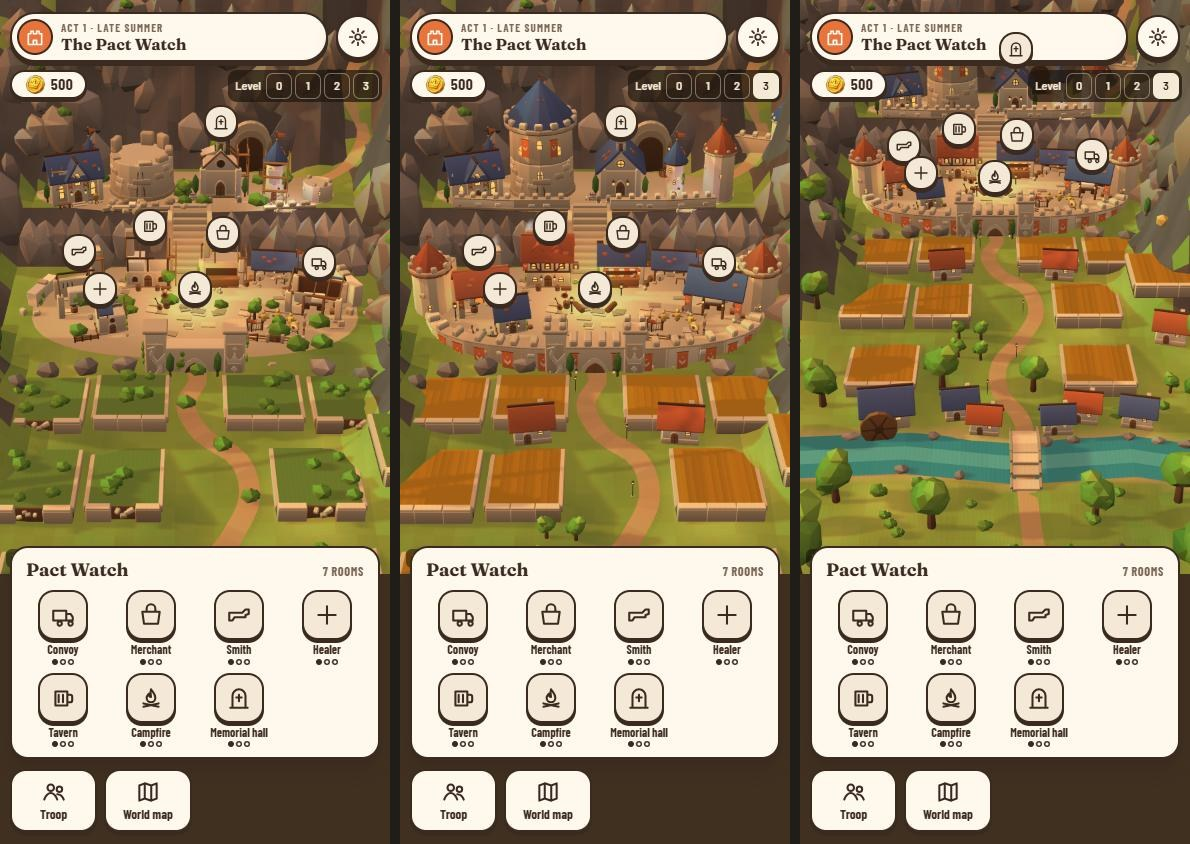
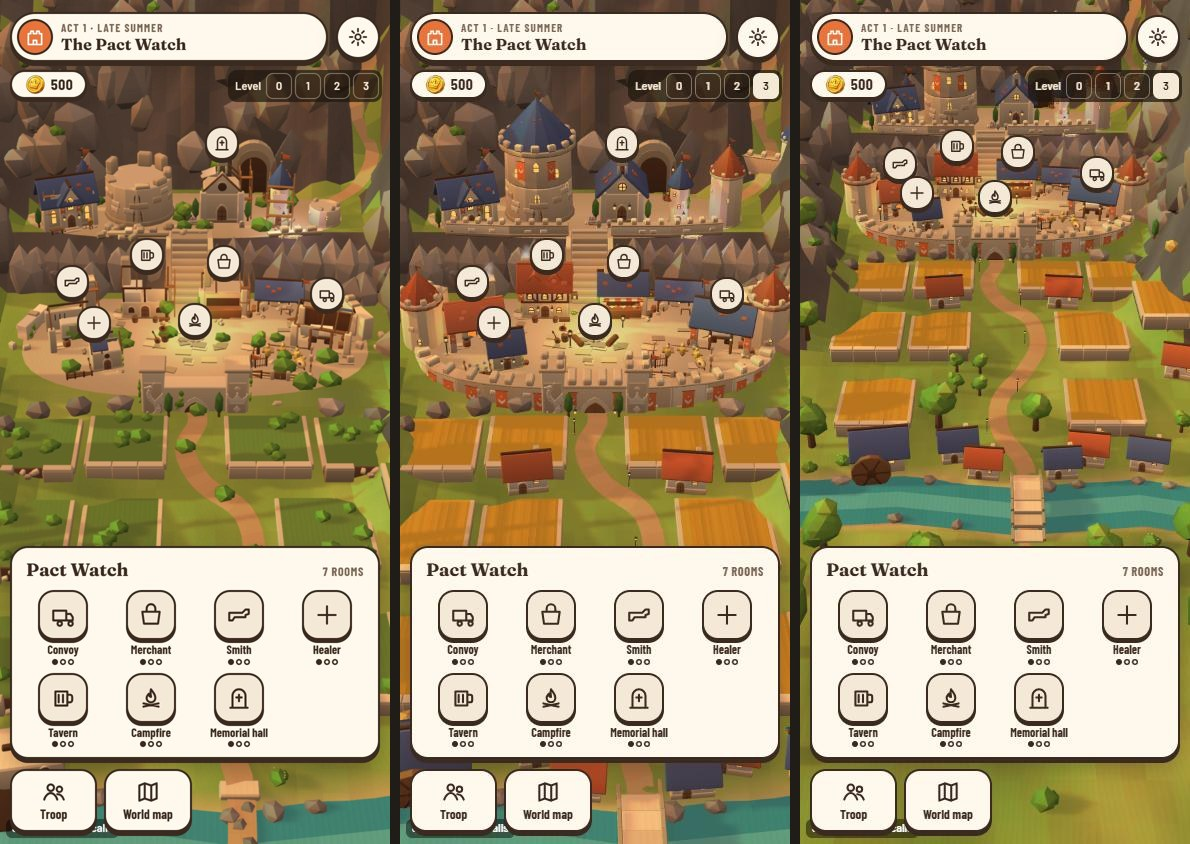
Let the castle scene fill the whole home screen
The room list and HUD now lie over the scene instead of a brown area. A lens
shift keeps the castle at its approved size on any screen height, and the
terrain runs further south so panning never reaches its edge.

diff --git a/src/render/home/castle.ts b/src/render/home/castle.ts
@@ -56,7 +56,9 @@ const DIST = 82;
 const AIM_Y = 11;
 /** the tip of the keep's roof (x, height, z), kept just under TOP of the view; it sets the aim's depth */
 const KEEP_TIP = new Vector3(-5.5, 25.8, 19.2);
-const TOP = 0.13;
+const TOP = 0.11;
+/** [C] the scene fills the screen, but the room list covers its lower part: the picture's centre sits this much above the screen's (share of the height) */
+const CENTRE_UP = 0.16;
 /** [C] how far the view pans from there: sideways, and forwards (down to the river, negative) */
 const PAN_X = 5;
 const PAN_Z: [number, number] = [-27, 1];
@@ -439,6 +441,7 @@ export class CastleView implements HostedView {
     const vp = new Viewport(0, 0, w, h);
     const { panX, panZ } = this;
     this.panX = this.panZ = 0;
+    this.shiftLens();
     for (let round = 0; round < 5; round++) {
       this.placeCamera();
       const m = this.camera.getViewMatrix(true).multiply(this.camera.getProjectionMatrix(true));
@@ -450,6 +453,14 @@ export class CastleView implements HostedView {
     this.panX = panX;
     this.panZ = panZ;
     this.placeCamera();
+  }
+
+  /** Moves the picture's centre up without moving or tilting the camera, so the castle keeps its size on every screen height. */
+  private shiftLens(): void {
+    this.camera.unfreezeProjectionMatrix();
+    const m = Array.from(this.camera.getProjectionMatrix(true).m);
+    m[9] = CENTRE_UP * 2;
+    this.camera.freezeProjectionMatrix(Matrix.FromArray(m));
   }
 
   private placePins(): void {

diff --git a/src/app/screens/Castle3d.css b/src/app/screens/Castle3d.css
@@ -1,5 +1,7 @@
 /* The castle home in 3D, in the picture's place, and its dev bar (?castle3d=1). */
 .hm__scene.c3d {
+  /* the scene fills the whole screen, HUD and room list lie over it */
+  height: 100%;
   overflow: hidden;
   /* evening sky behind the transparent canvas */
   background: linear-gradient(180deg, #6c5a96 0%, #c78a8a 46%, #f0b071 72%, #e7c08a 100%);

diff --git a/tools/art/blender_paktwacht.py b/tools/art/blender_paktwacht.py
@@ -164,7 +164,7 @@ def ground_col(x, y, steep):
 def build_terrain():
     p = part('land_a')
     xs = [-33 + i * 1.5 for i in range(45)]
-    ys = [-58 + j * 1.25 for j in range(84)]
+    ys = [-74 + j * 1.25 for j in range(97)]
     H = {(i, j): height(x, y) for i, x in enumerate(xs) for j, y in enumerate(ys)}
     for i in range(len(xs) - 1):
         for j in range(len(ys) - 1):
@@ -600,7 +600,7 @@ def build_land():
     for x, y in ((-2.2, -2.6), (2.0, -2.6), (17.5, -1.0), (-17.5, -1.0)):
         cypress(a, x, y, s=2.4, seed=r.randint(0, 999), M=mat4((0, 0, height(x, y))))
     for i in range(40):
-        x, y = r.uniform(-22, 22), r.uniform(-50, -28)
+        x, y = r.uniform(-22, 22), r.uniform(-64, -28)
         if polyline_dist(RIVER, x, y)[0] < 3.2 or polyline_dist(ROAD, x, y)[0] < 1.5:
             continue
         bush(a, x, y, s=r.uniform(0.45, 0.8), seed=r.randint(0, 999), M=mat4((0, 0, height(x, y))), flowers=r.choice((None, 'flower_w', 'flower_y')))
